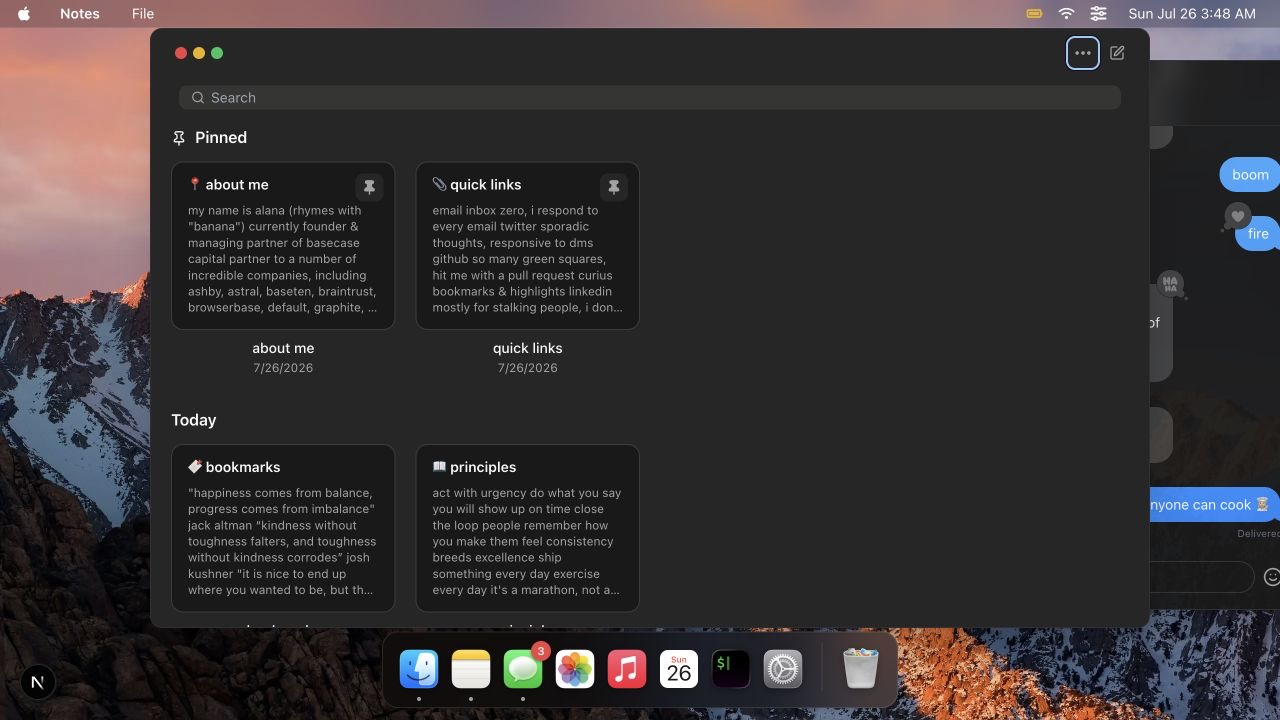
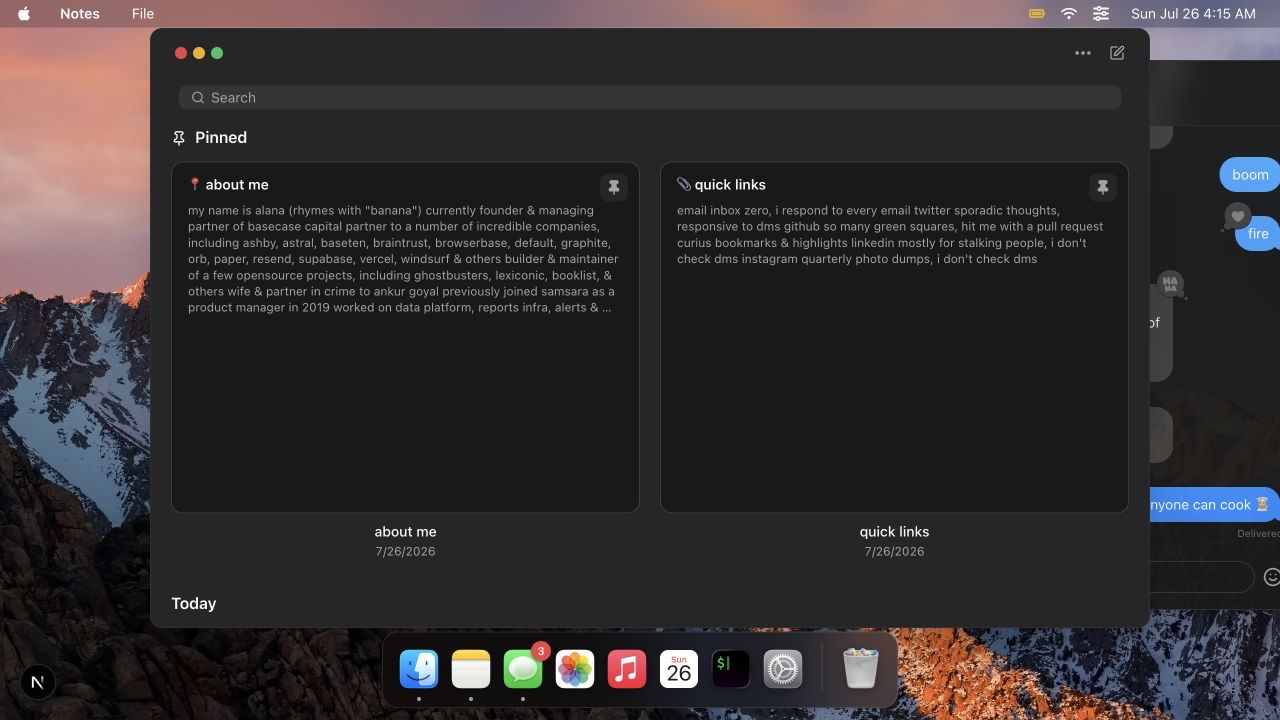
Let Notes gallery fill its width

diff --git a/components/apps/notes/sidebar-content.tsx b/components/apps/notes/sidebar-content.tsx
@@ -103,7 +103,7 @@ function GalleryGrid({
   onPinToggle: (slug: string) => void;
 }) {
   return (
-    <div className="grid grid-cols-[repeat(auto-fill,minmax(190px,1fr))] gap-x-5 gap-y-6">
+    <div className="grid grid-cols-[repeat(auto-fit,minmax(190px,1fr))] gap-x-5 gap-y-6">
       {notes.map((note) => (
         <GalleryCard
           key={note.id}
